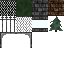
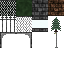
prop size

Changed region(s): [[0.75, 0.25, 1.0, 0.75]]

diff --git a/src/gfx/renderer3D.js b/src/gfx/renderer3D.js
@@ -15,7 +15,7 @@ export class Renderer3D {
     this.fogColor = [ 20, 10, 10 ];
   }
   
-  renderSprite(spriteTex, spritePos)
+  renderSprite(spriteTex, spritePos, width=1.0, height=1.0)
   {
     const cosDir = Math.cos(-this.camera.rot);
     const sinDir = Math.sin(-this.camera.rot);
@@ -31,16 +31,17 @@ export class Renderer3D {
       return;
     
     const distFactor = this.bitmap.width / (yRot * this.camera.fov);
-    const texStep = 1.0 / distFactor;
+    const xTexStep = 1.0 / (distFactor * width);
+    const yTexStep = 1.0 / (distFactor * height);
     
-    let xPixel0 = (xRot - 0.5) * distFactor + this.halfWidth;
-    let xPixel1 = (xRot + 0.5) * distFactor + this.halfWidth;
-    let yPixel0 = (zCam - 0.5) * distFactor + this.halfHeight;
-    let yPixel1 = (zCam + 0.5) * distFactor + this.halfHeight;
+    let xPixel0 = (xRot - 0.5 * width) * distFactor + this.halfWidth;
+    let xPixel1 = (xRot + 0.5 * width) * distFactor + this.halfWidth;
+    let yPixel0 = (zCam - 0.5 * height) * distFactor + this.halfHeight;
+    let yPixel1 = (zCam + 0.5 * height) * distFactor + this.halfHeight;
     
     let xTex = 0;
     if (xPixel0 < 0) {
-      xTex = -xPixel0 / distFactor;
+      xTex = -xPixel0 * xTexStep;
       xPixel0 = 0;
     }
     
@@ -49,7 +50,7 @@ export class Renderer3D {
     
     let yTexStart = 0;
     if (yPixel0 < 0) {
-      yTexStart = -yPixel0 / distFactor;
+      yTexStart = -yPixel0 * yTexStep;
       yPixel0 = 0;
     }
     
@@ -62,11 +63,11 @@ export class Renderer3D {
     const yp1 = Math.floor(yPixel1);
     
     for (let x = xp0; x < xp1; x++) {
-      xTex += texStep;
+      xTex += xTexStep;
       
       let yTex = yTexStart;
       for (let y = yp0; y < yp1; y++) {
-        yTex += texStep;
+        yTex += yTexStep;
         
         const xt = Math.floor(xTex * spriteTex.width);
         const yt = Math.floor(yTex * spriteTex.height);

diff --git a/tools/tmx/tmx.js b/tools/tmx/tmx.js
@@ -18,11 +18,13 @@ class MapFile {
 };
 
 class Prop {
-  constructor(spriteID, xPos, yPos)
+  constructor(spriteID, xPos, yPos, width, height)
   {
     this.spriteID = spriteID;
     this.xPos = xPos;
     this.yPos = yPos;
+    this.width = width;
+    this.height = height;
   }
 };
 
@@ -46,7 +48,7 @@ function tmxToMap(tmxPath)
   };
   
   const parser = new XMLParser(options);
-  let tmxMap = parser.parse(xmlData);
+  const tmxMap = parser.parse(xmlData);
   
   const properties = tmxMap.map.properties ? [].concat(tmxMap.map.properties) : [];
   const sky = getProperty("sky", properties)
@@ -76,8 +78,10 @@ function tmxToMap(tmxPath)
       const id = parseInt(prop.gid) - 1;
       const xPos = parseFloat(prop.x) / 10.0;
       const yPos = parseFloat(prop.y) / 10.0;
+      const width = parseFloat(prop.width) / parseFloat(tmxMap.map.tilewidth);
+      const height = parseFloat(prop.height) / parseFloat(tmxMap.map.tileheight);
       
-      props.push(new Prop(id, xPos, yPos));
+      props.push(new Prop(id, xPos, yPos, width, height));
     }
   }
   

diff --git a/src/gfx/gameRenderer.js b/src/gfx/gameRenderer.js
@@ -59,10 +59,12 @@ export class GameRenderer extends Renderer3D {
     for (const mapWall of this.mapWalls)
       this.renderWall(mapWall.tex, mapWall.start, mapWall.end);
     
-    for (const prop of this.map.getProps()) {
+    for (const prop of this.map.props) {
       this.renderSprite(
         this.map.tileSet.spriteMap.getSprite(prop.spriteID),
-        new Vector3(prop.xPos, prop.yPos, 0.0)
+        new Vector3(prop.xPos, prop.yPos, 0.5),
+        prop.width,
+        prop.height
       );
     }
   }

diff --git a/src/game/entities/zombie.js b/src/game/entities/zombie.js
@@ -15,8 +15,8 @@ export class Zombie extends Entity {
         this.speed = 3
 
         const animationStates =  {
-            "idle" : new Animation(0, 2, 300),
-            "aggro" : new Animation(2, 2, 150)
+            "idle" : new Animation(4, 2, 300),
+            "aggro" : new Animation(6, 2, 150)
         } 
         this.animation = new AnimationEngine("idle", animationStates)
     

diff --git a/src/game/map.js b/src/game/map.js
@@ -26,11 +26,6 @@ export class Map {
     this.voidTile = 1;
   }
   
-  getProps()
-  {
-    return this.props;
-  }
-  
   getTile(x, y)
   {
     if (x < 0 || y < 0 || x >= this.width || y >= this.height)
